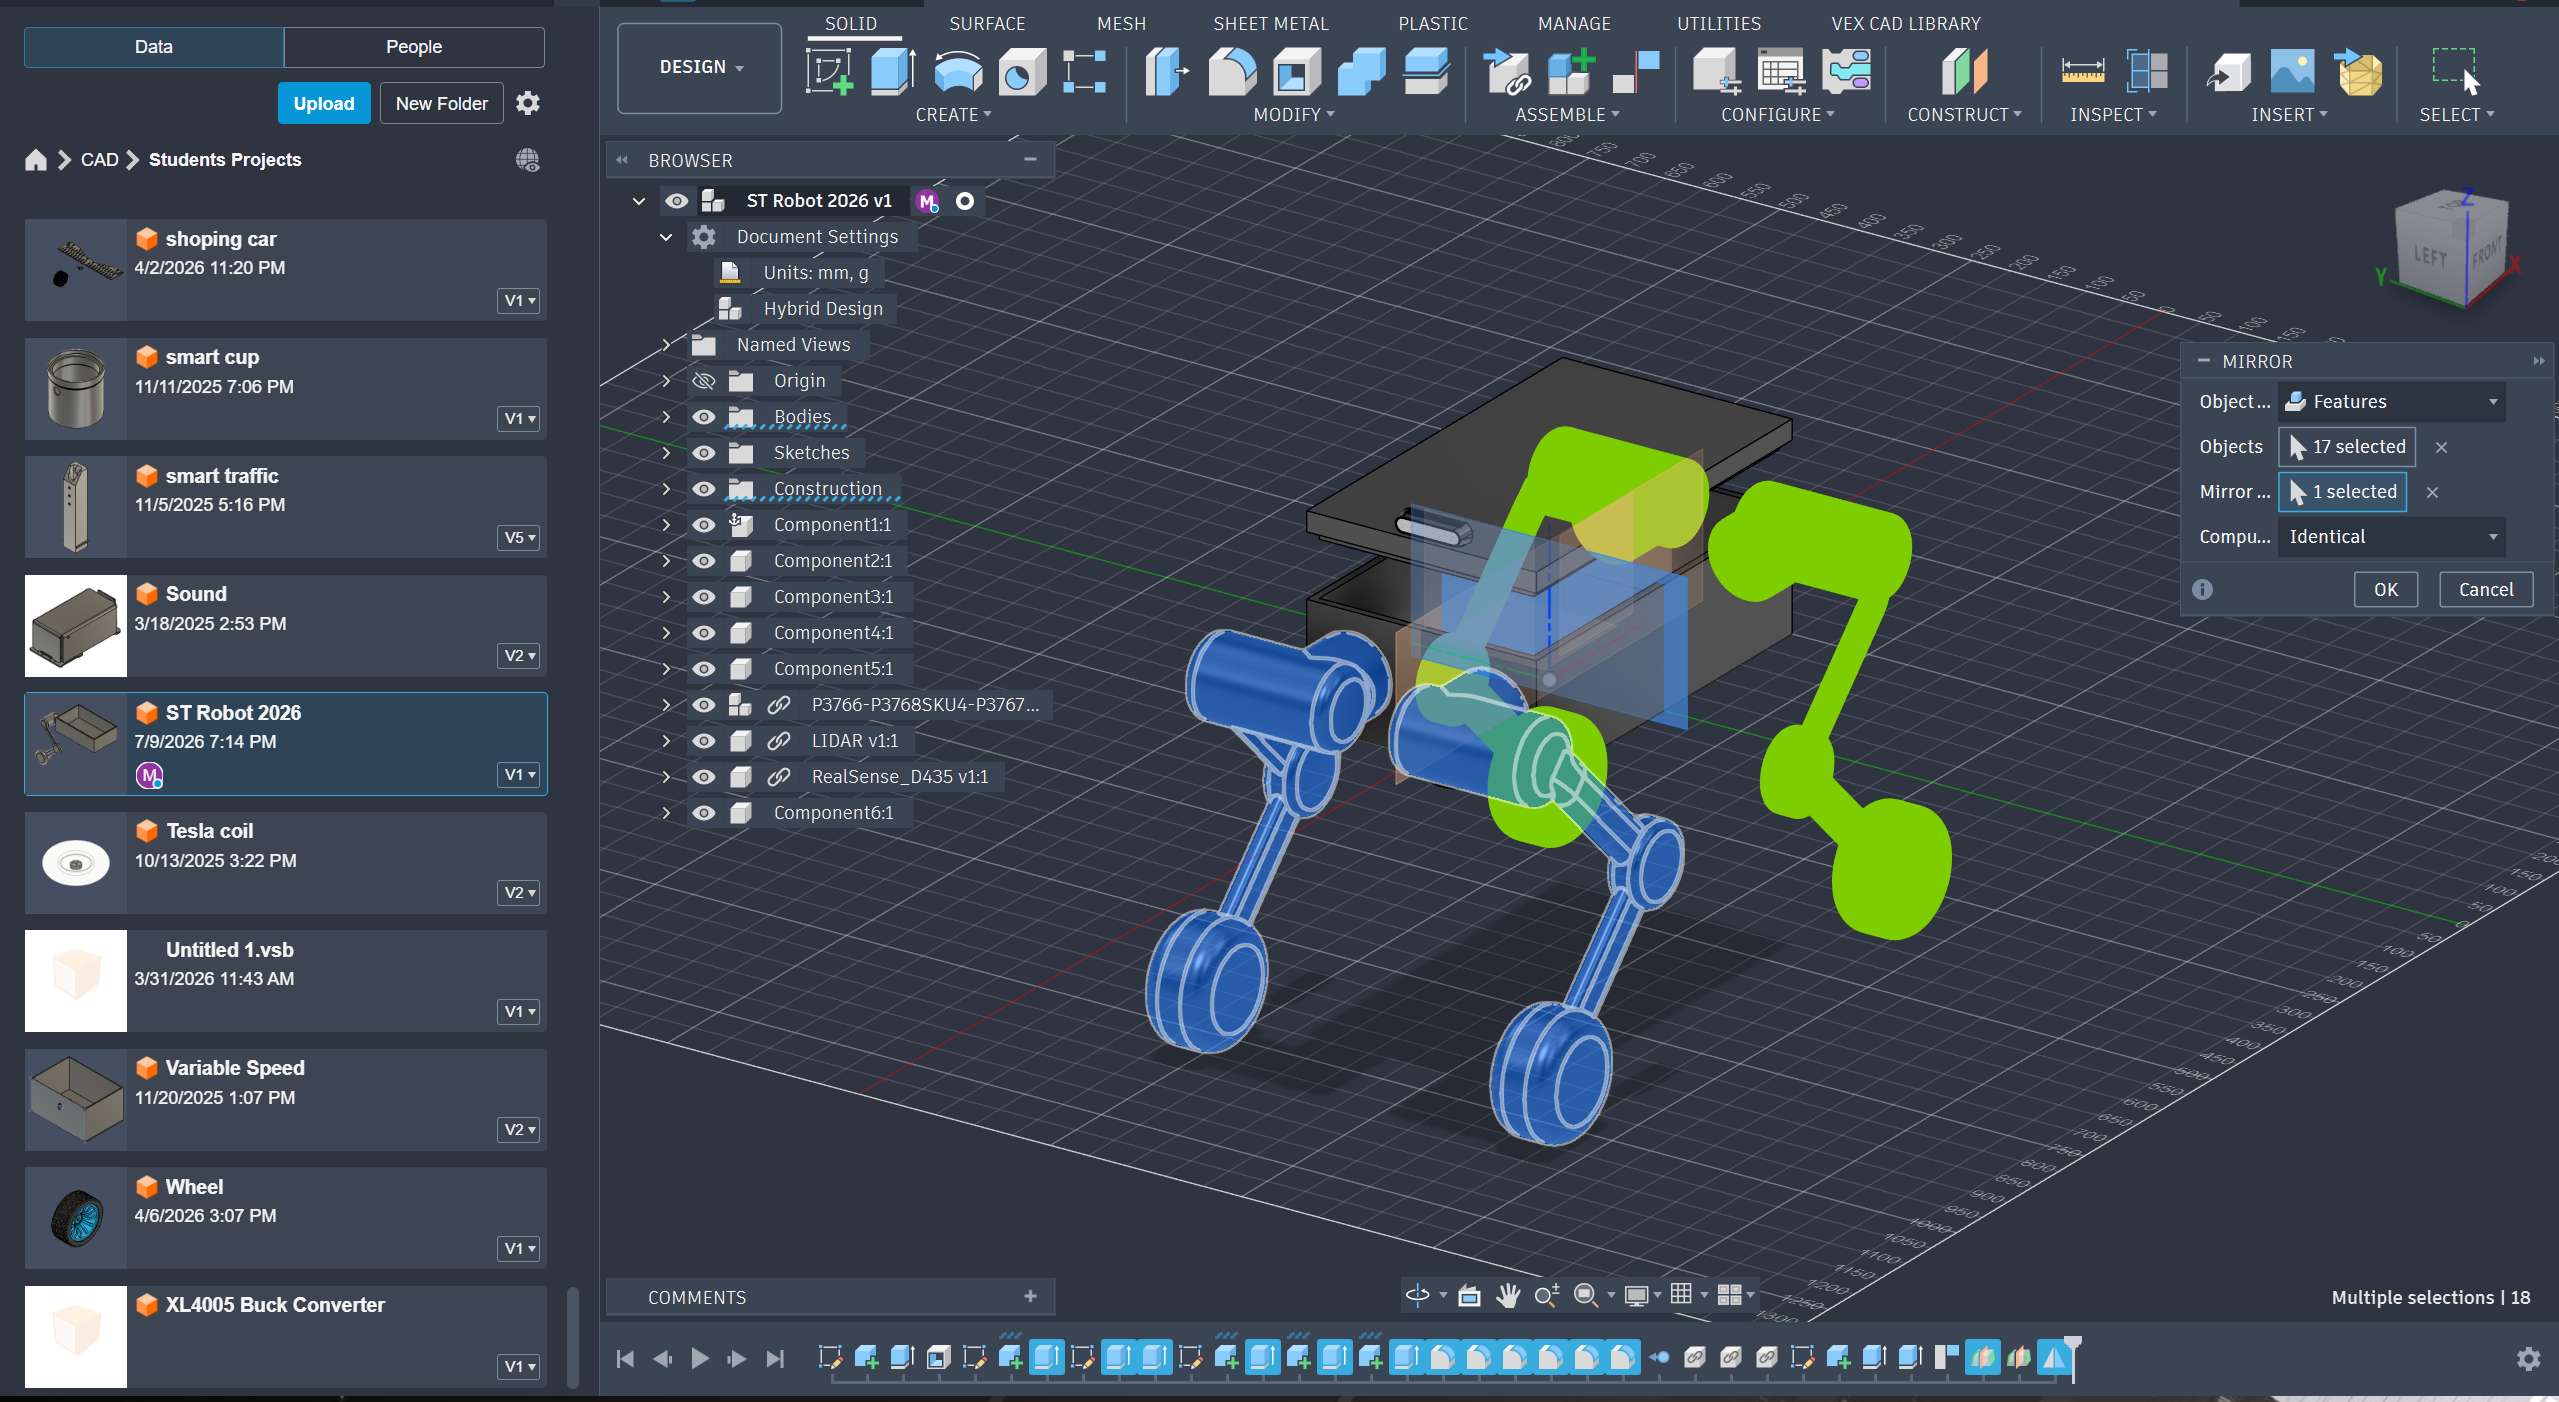
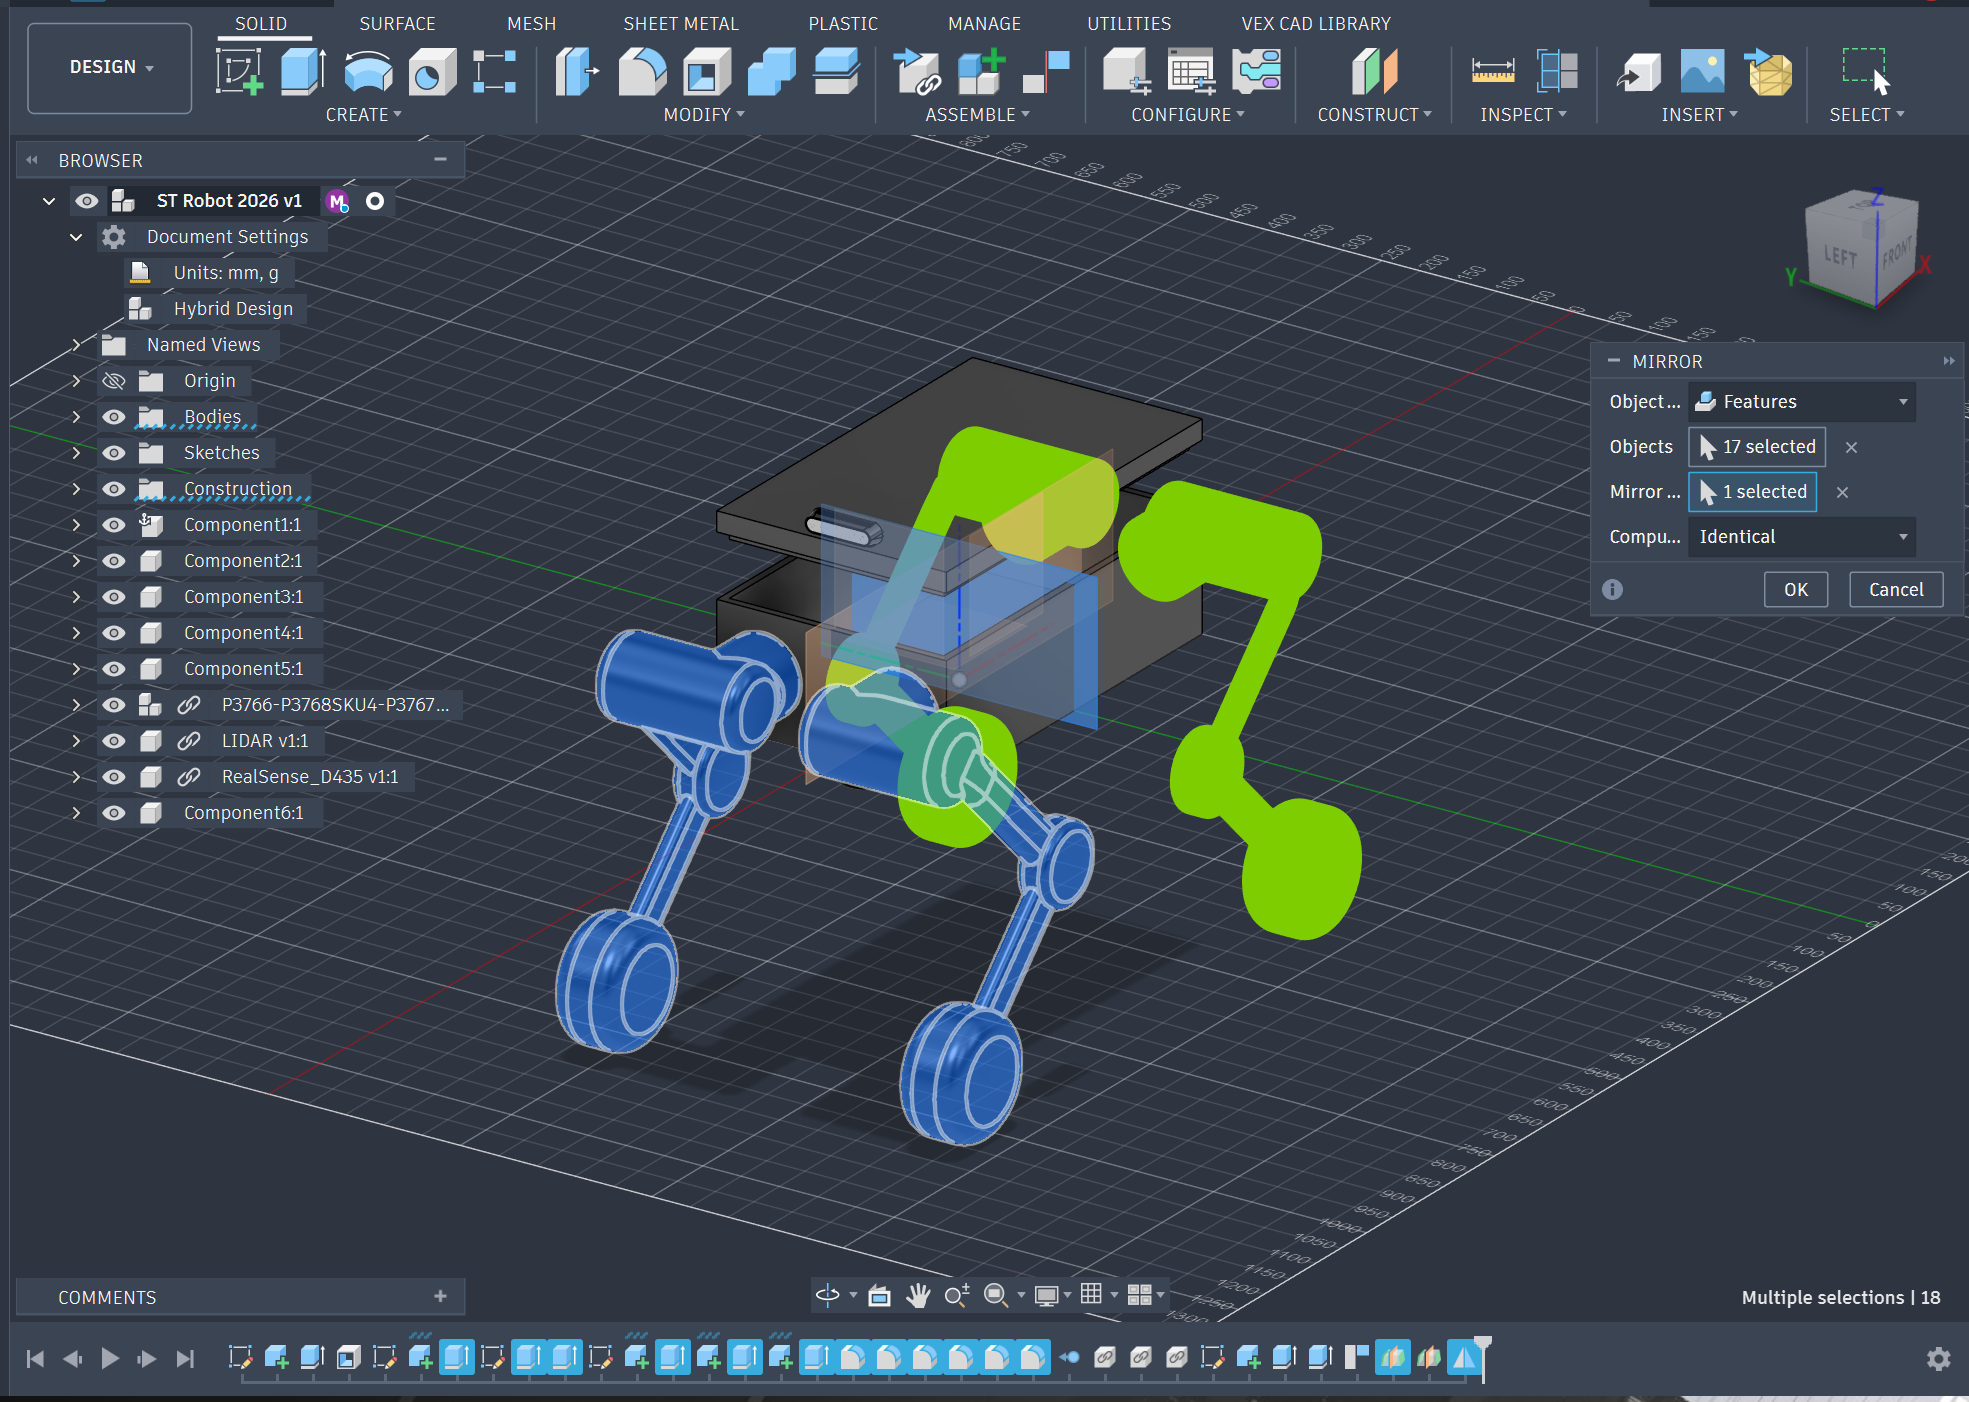
Add printable STL, crop Fusion assembly image, list STL in README

diff --git a/README.md b/README.md
@@ -103,7 +103,8 @@ Full parts list, kinematics and control‑stack notes are in [`spec.json`](spec.
 | [`حركة مفاصل الرجل ومحركاتها.html`](حركة%20مفاصل%20الرجل%20ومحركاتها.html) | Leg‑joint / motor explainer |
 | [`build_robot.py`](build_robot.py) | Fusion 360 script — builds the parametric assembly |
 | [`spec.json`](spec.json) | Authoritative parametric spec (dimensions, joints, BOM, review) |
-| `ST Robot 2026.3mf` | 3D model export |
+| `ST Robot 2026.3mf` | 3D model export (color/assembly) |
+| `ST Robot 2026.stl` | 3D‑printable mesh (STL) |
 | `docs/` | Images used in this README |
 
 > **Note:** the `.html` tools are interactive — open them in a browser (locally, or via GitHub Pages). `robot-3d-model.html` loads Three.js from a CDN, so it needs internet on first open.